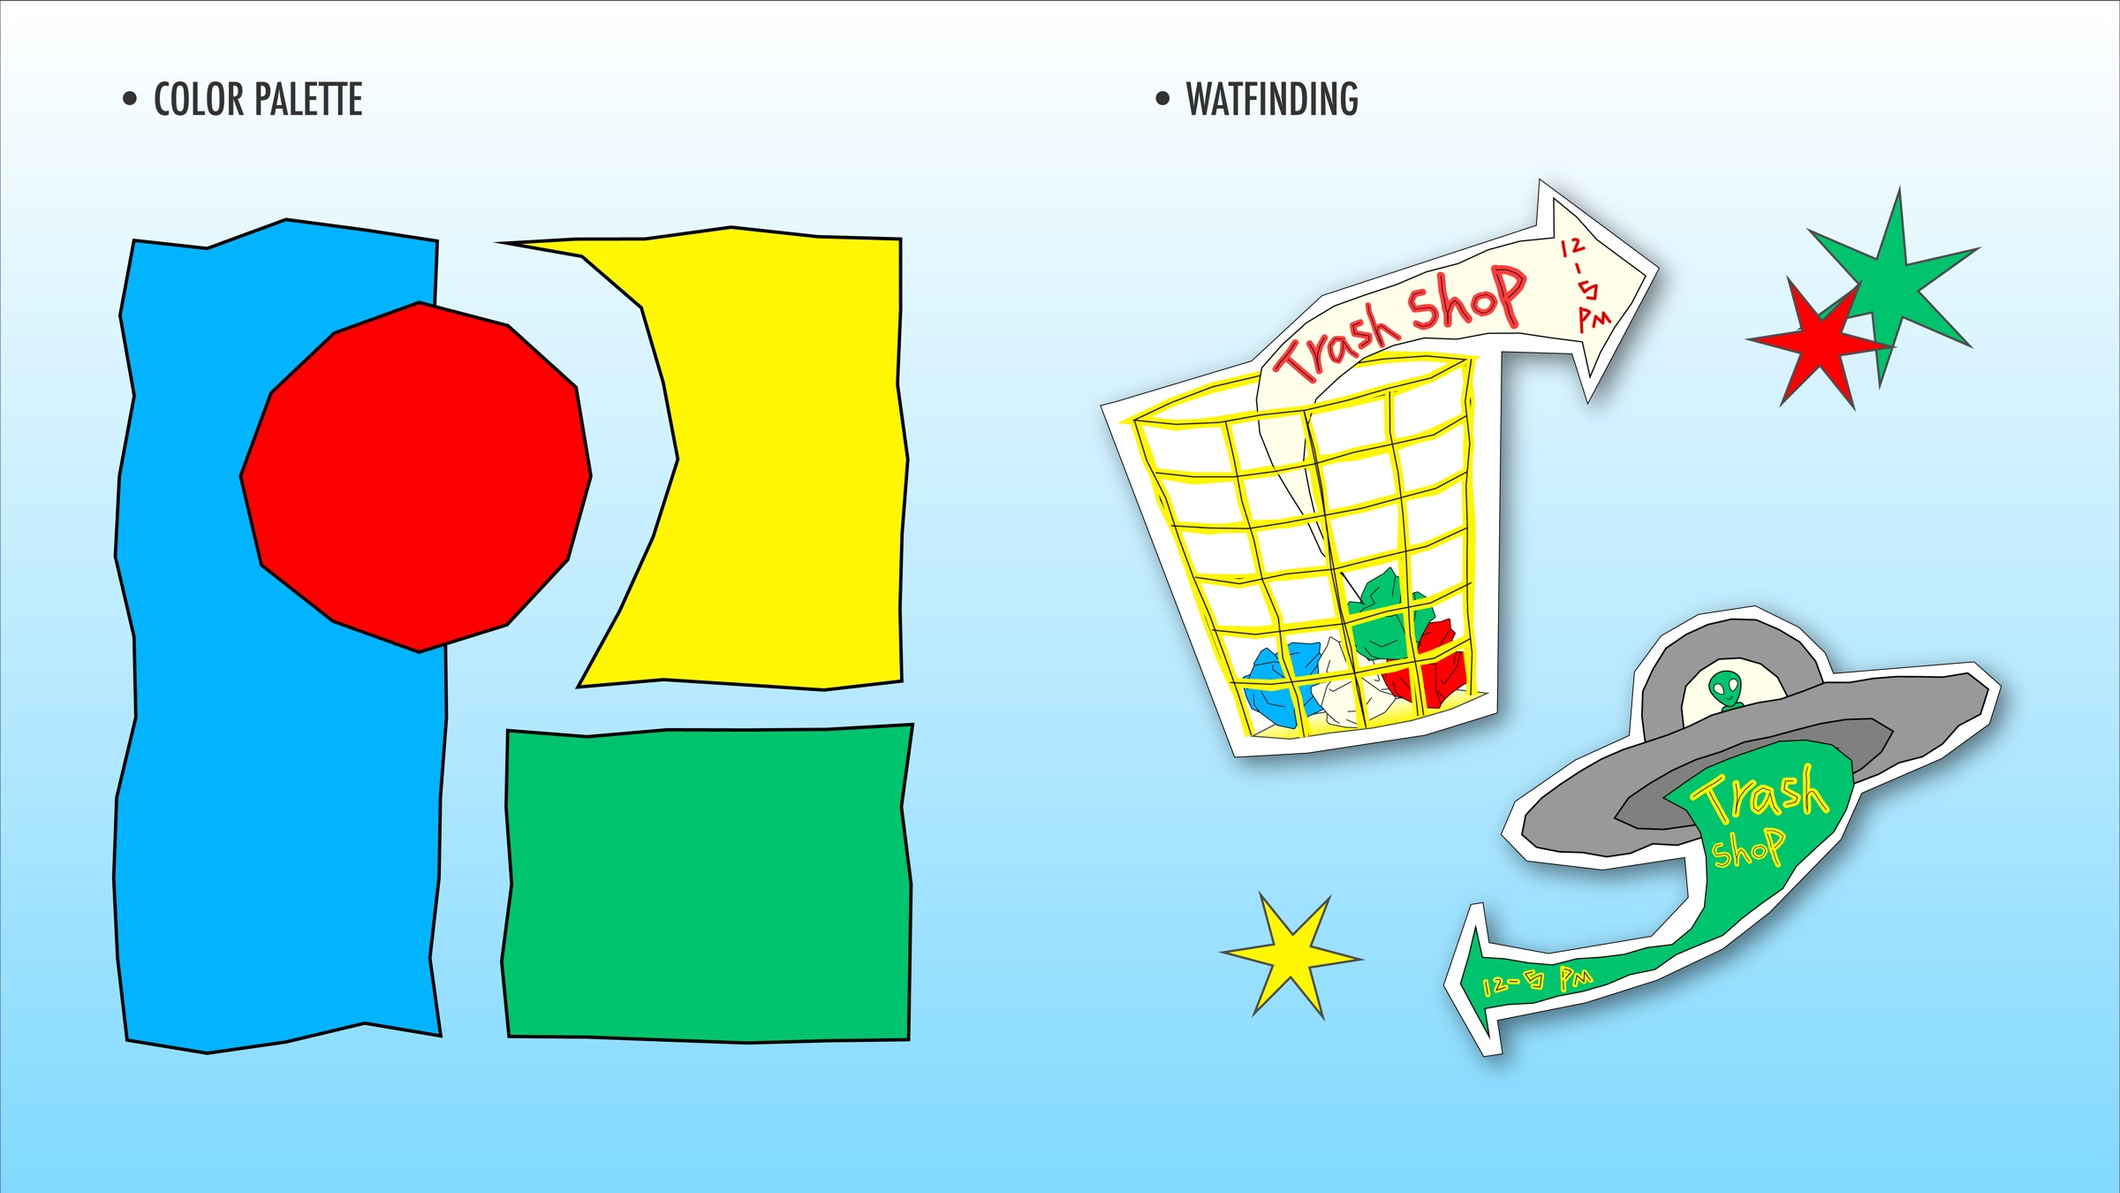
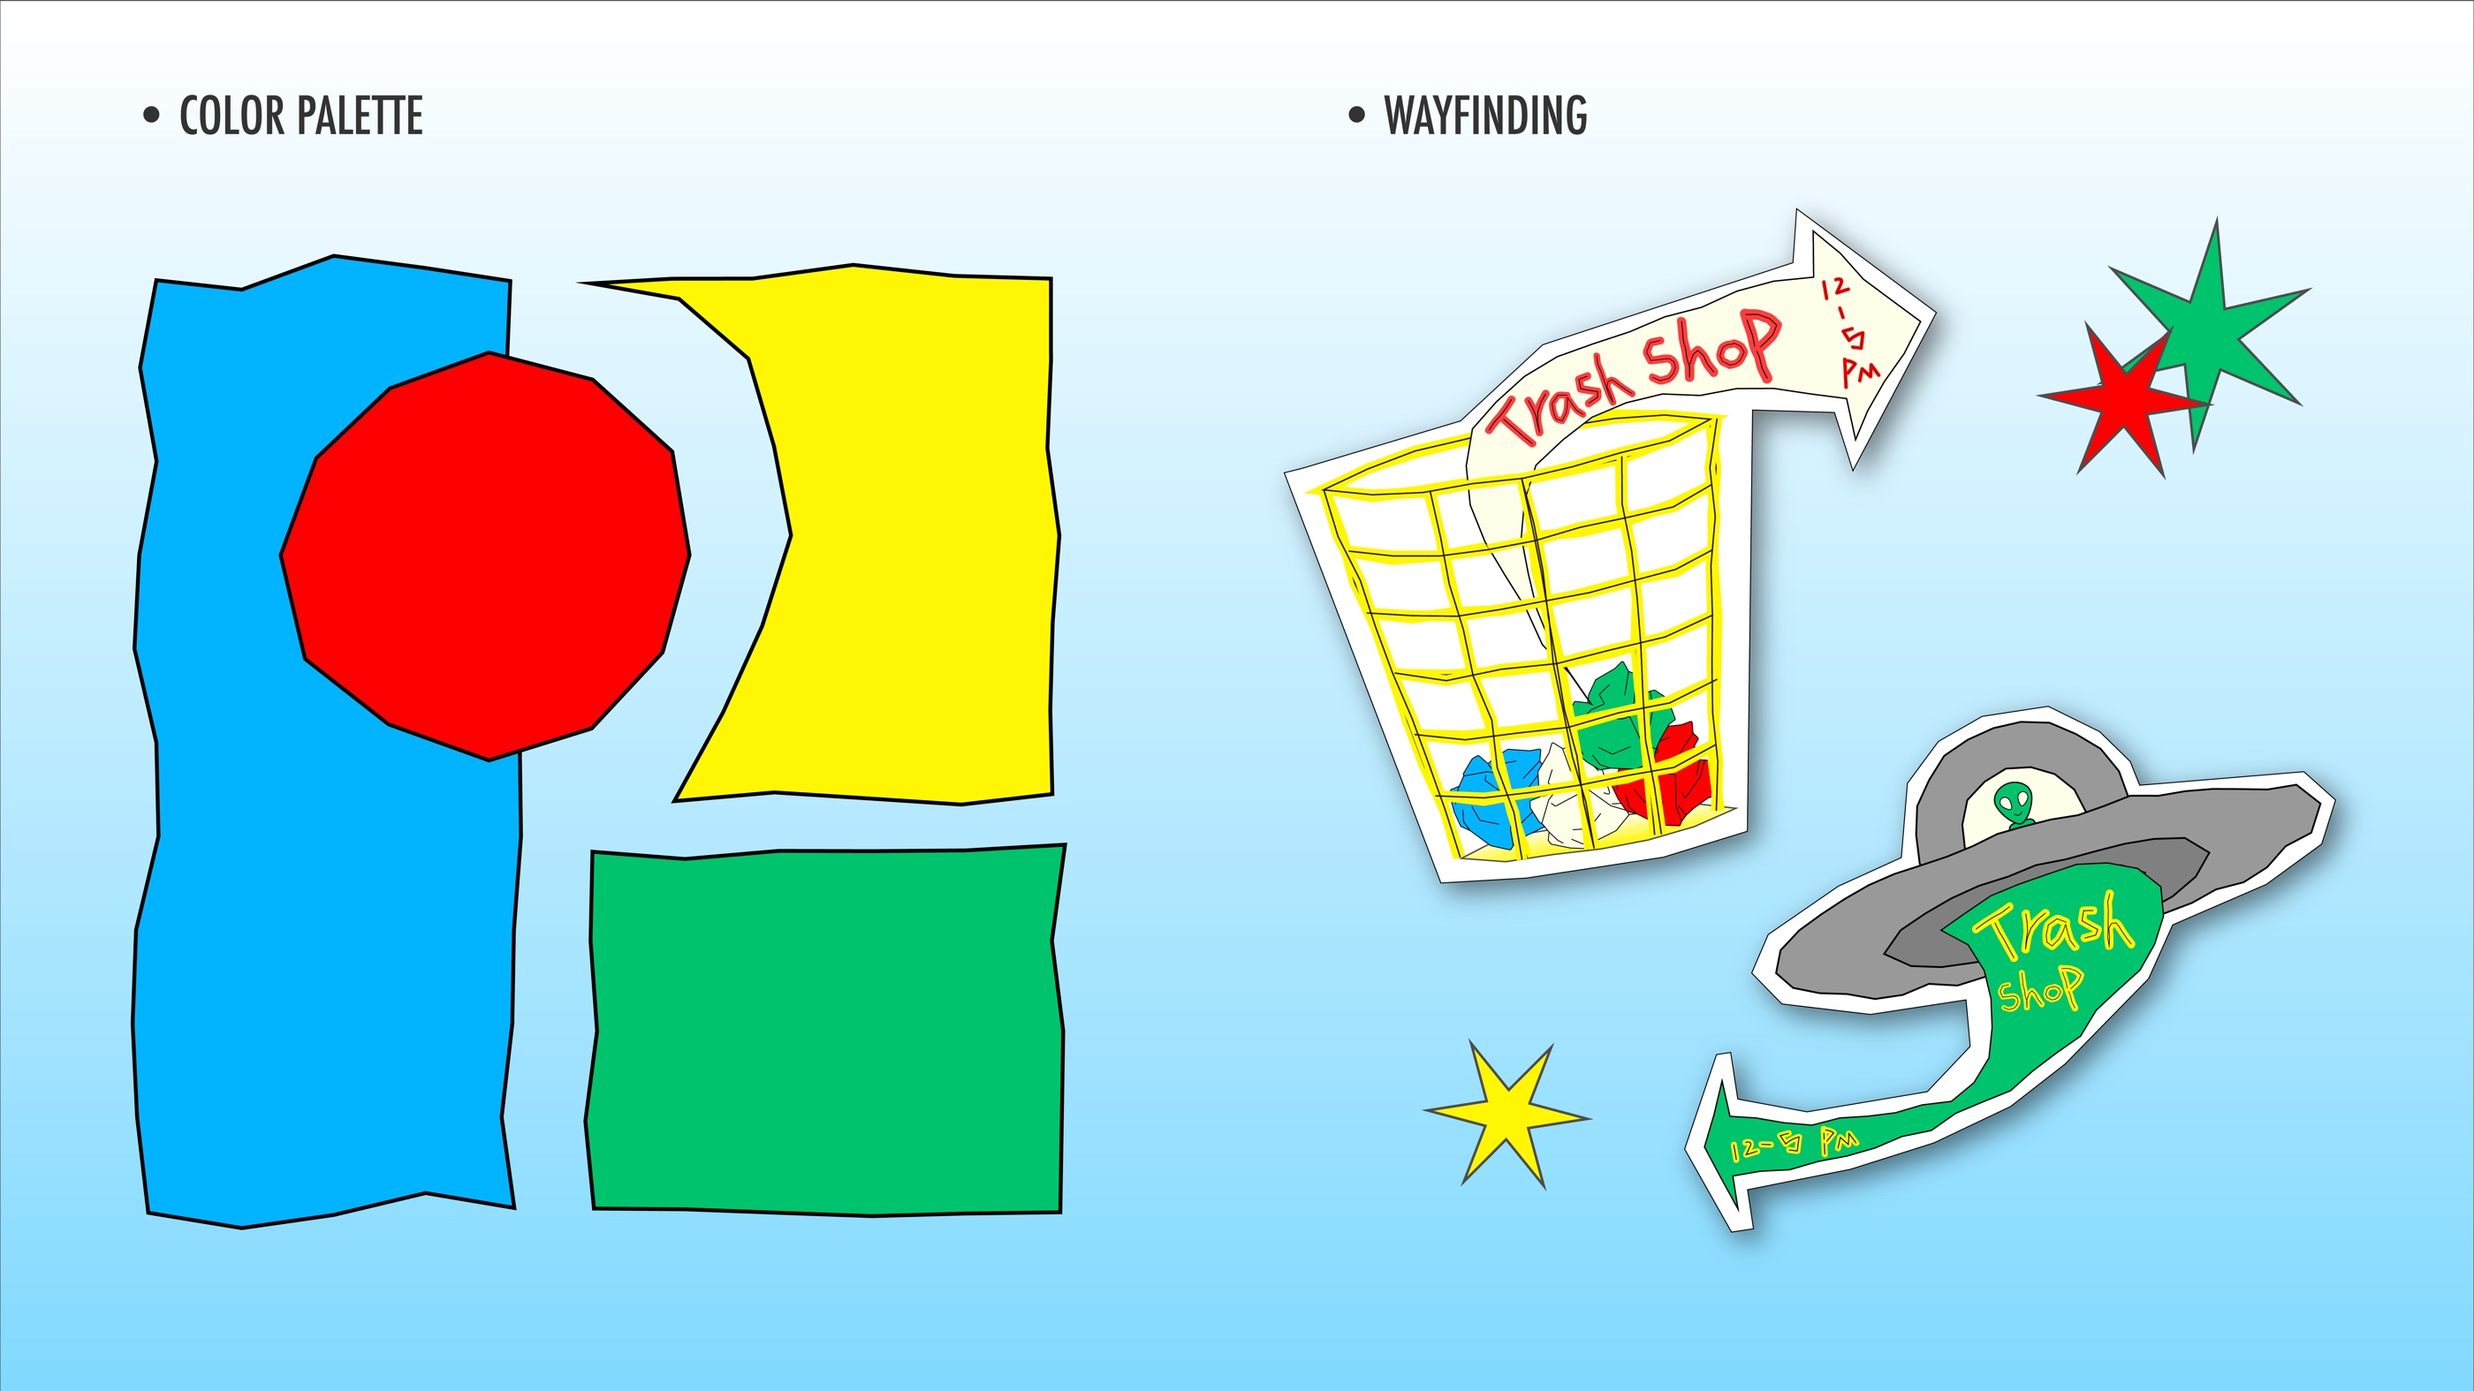
Update portfolio project copy and imagery

diff --git a/components/PackagingDesignPage.tsx b/components/PackagingDesignPage.tsx
@@ -7,57 +7,87 @@ type PackagingProject = {
   id: string;
   title: string;
   titleZh: string;
-  subtitle: string;
-  subtitleZh: string;
   sign: string;
   assetDir: string;
   images: string[];
-  description: string[];
-  descriptionZh: string[];
+  description: PackagingCopyBlock[];
+  descriptionZh: PackagingCopyBlock[];
+};
+
+type PackagingCopySegment = string | {
+  text: string;
+  bold?: boolean;
+};
+
+type PackagingCopyBlock = string | {
+  text?: string;
+  segments?: PackagingCopySegment[];
 };
 
 const projects: PackagingProject[] = [
   {
     id: "focus",
-    title: "Pink Blur",
+    title: "Focus",
     titleZh: "失焦",
-    subtitle: "Fruit cocktail packaging / 2024",
-    subtitleZh: "果味预调酒包装 / 2024",
     sign: "/packaging/sign-1.png",
     assetDir: "focus",
     images: ["1.jpg", "2.jpg", "3.jpg"],
     description: [
-      "Pink Blur is a packaging direction for a fruit-led ready-to-drink cocktail. The label begins with a deliberately softened wordmark: a small visual pause before the flavour comes into focus.",
-      "Bright pink and orange fields create a hazy, sun-warmed atmosphere, while the surrounding information stays crisp enough for the can to read quickly at a distance.",
-      "This is sample project copy for the page layout. Brand story, flavour range, materials and production notes can replace it when the case study is ready.",
+      "“FOCUS” takes the hazy, relaxed sensory experience of being slightly tipsy as its visual starting point. Through expansive diffused gradients and blurred typography, the packaging translates the gradual dissolution of boundaries between colour and information into a visual language. This responds directly to the concept “out of focus” while evoking the dreamy state between clarity and mild intoxication. Each flavour is distinguished through colours derived from its key ingredients, allowing colour to function both as an emotional device and as a cue for flavour recognition.",
+      {
+        segments: [
+          "In terms of information hierarchy, the design deliberately creates a contrast between ",
+          { text: "clarity and blur", bold: true },
+          ". Enlarged, blurred typography conveys mood and visual impact, while essential information such as flavour names and product categories remains clear, forming a secondary reading layer. Variations in scale, sharpness, placement and negative space extend the visual idea of “out of focus” while maintaining the readability of key product information.",
+        ],
+      },
     ],
     descriptionZh: [
-      "失焦是一套以果味预调酒为主题的包装方向。标签从一个刻意柔化的字标开始，让视线在识别风味之前，先经历一瞬间的朦胧停顿。",
-      "明亮的粉与橙构成带有日晒感的雾化氛围；围绕它的产品信息则保持清晰，使包装在陈列距离中依然能够被快速阅读。",
-      "此处为展示页面结构而写的示例文案。正式案例完成后，可替换为品牌背景、口味系列、材质和打样记录。",
+      "“失焦”以微醺状态下朦胧、松弛的感官体验作为视觉出发点。包装通过大面积弥散渐变与模糊文字，将色彩和信息逐渐失去边界的状态转化为视觉语言，呼应“失焦”这一名称，也呈现介于清醒与微醺之间的迷离感。不同口味以原料本身的色彩印象建立系列区分，使色彩同时承担情绪表达与风味识别的功能。",
+      "在信息层级上，设计刻意建立“清晰”与“模糊”的对比：放大的模糊文字承担情绪表达与视觉吸引力，口味名称、产品类别等核心信息则保持清晰，形成第二阅读层级。通过字号、清晰度、位置与留白的变化，包装在保持基本信息可读性的同时，也延续了“失焦”的视觉体验。",
     ],
   },
   {
     id: "trace",
     title: "Trace",
     titleZh: "Trace",
-    subtitle: "Skincare packaging / 2024",
-    subtitleZh: "护肤精华包装 / 2024",
     sign: "/packaging/sign-2.png",
     assetDir: "trace",
     images: ["1.jpg", "2.jpg", "3.jpg"],
     description: [
-      "Trace is a skincare packaging study built around the feeling of a botanical ingredient leaving a gentle mark. The identity gives rosemary room to appear as both an active component and a quiet visual gesture.",
-      "The paper-toned palette and handwritten botanical forms keep the system tactile, while the product data follows a disciplined hierarchy for everyday use.",
-      "This is provisional copy for the portfolio view. It can later be replaced with the project brief, ingredient research and the complete packaging specification.",
+      "TRACE is a skincare brand centred on nature, restoration and a pared-back approach to care. The brand seeks to strip away excess and unnecessary complexity from everyday skincare, returning attention to plants, skin and sensory experience, and leaving a light yet lasting trace through a quiet, considered ritual.",
+      "Rosemary is the key ingredient throughout the collection and also serves as the central visual motif across the packaging system. Inspired by botanical printing, the rosemary imagery retains irregular edges, variations in density and subtle imperfections, as though the plant has briefly rested on the surface and left behind a natural imprint. Across the cleanser, serum and cream, rosemary appears at different scales, orientations and crops, allowing each product to remain distinct while sharing a continuous botanical language and a cohesive visual rhythm.",
+      "The colour palette combines soft off-whites with muted greens to create a calm, airy foundation, while vivid botanical green provides the primary visual focus. Deep brown typography adds warmth and balances the organic character with a more contemporary sensibility. In the information hierarchy, key product features and category names form the primary reading path, while supporting details recede into a secondary level, allowing the botanical imagery to carry both mood and recognition.",
     ],
     descriptionZh: [
-      "Trace 是一项护肤精华包装练习，围绕植物成分留下温和痕迹的感受展开。迷迭香既作为有效成分出现，也成为贯穿画面的安静图形线索。",
-      "纸张般的中性色和手写感植物图形让系统保持触感；产品信息则采用克制、清晰的层级，以满足日常使用时的识别需求。",
-      "当前文字为作品集页面的临时示例。之后可替换为项目简报、成分研究和完整包装规格说明。",
+      "TRACE 是一个以自然、疗愈与精简护理为核心的护肤品牌。品牌希望从日常护肤中剥离过度修饰与复杂步骤，将注意力重新放回植物、肌肤与感受本身，在克制而安静的护理节奏中，留下轻盈却持续的痕迹。",
+      "该系列的主要原料是迷迭香，视觉系统也选择以迷迭香作为贯穿整个系列的核心元素，并以植物拓印的风格进行转译。枝叶并非以完整、规整的植物插画出现，而是保留压印后略显不均的边缘、浓淡与残缺感，如同植物曾短暂停留于纸面，并留下自然生长的痕迹。迷迭香在不同包装中以不同尺度、方向与裁切方式延展，使洁面、精华与面霜在保持各自信息独立的同时，共享同一种植物语言，也让系列之间形成连续而统一的视觉节奏。",
+      "色彩以柔和的米白与低饱和绿色系建立安静、通透的基调，鲜明的植物绿色则成为画面中最主要的视觉焦点，与深棕色文字共同平衡自然感与现代感。信息层级上，产品特点与品类名称构成主要阅读路径，其他信息退居次级，使植物图形承担情绪表达与识别功能。",
     ],
   },
 ];
+
+function renderCopyBlocks(blocks: PackagingCopyBlock[]) {
+  return blocks.map((block, index) => {
+    if (typeof block === "string") {
+      return <p className="brand-copy-block" key={`${block}-${index}`}>{block}</p>;
+    }
+
+    const key = block.text ?? block.segments?.map((segment) => (
+      typeof segment === "string" ? segment : segment.text
+    )).join("") ?? String(index);
+
+    return (
+      <p className="brand-copy-block" key={`${key}-${index}`}>
+        {block.segments?.map((segment, segmentIndex) => (
+          typeof segment === "string"
+            ? segment
+            : <strong key={`${segment.text}-${segmentIndex}`}>{segment.text}</strong>
+        )) ?? block.text}
+      </p>
+    );
+  });
+}
 
 export function PackagingDesignPage() {
   const [activeId, setActiveId] = useState<string | null>(null);
@@ -105,7 +135,7 @@ export function PackagingDesignPage() {
   };
 
   return (
-    <main className="brand-page packaging-page">
+    <main className="brand-page brand-design-page packaging-page">
       <Link className="brand-back" href="/" aria-label="返回路牌首页">← Index</Link>
 
       <header className="brand-sign-rail" aria-label="包装设计项目导航">
@@ -149,30 +179,18 @@ export function PackagingDesignPage() {
             <div className="brand-panel brand-copy-panel">
               <div className="brand-panel-scroll brand-copy-scroll brand-copy-scroll-zh" ref={chineseRef} lang="zh-CN">
                 <div className="brand-copy-inner brand-copy-inner-zh">
-                  <p className="brand-kicker">包装设计 / {active.id}</p>
-                  <h1>{active.titleZh}</h1>
-                  <p className="brand-subtitle">{active.subtitleZh}</p>
-                  <div className="brand-copy-rule" />
-                  {active.descriptionZh.map((paragraph) => <p key={paragraph}>{paragraph}</p>)}
-                  <p className="brand-scroll-note">滚动浏览 · 01—03</p>
+                  {renderCopyBlocks(active.descriptionZh)}
                 </div>
               </div>
               <div className="brand-panel-scroll brand-copy-scroll brand-copy-scroll-en" ref={englishRef} lang="en">
                 <div className="brand-copy-inner">
-                  <p className="brand-kicker">Packaging design / {active.id}</p>
-                  <h1>{active.title}</h1>
-                  <p className="brand-subtitle">{active.subtitle}</p>
-                  <div className="brand-copy-rule" />
-                  {active.description.map((paragraph) => <p key={paragraph}>{paragraph}</p>)}
-                  <p className="brand-scroll-note">Scroll to explore · 01—03</p>
+                  {renderCopyBlocks(active.description)}
                 </div>
               </div>
             </div>
           </>
         ) : null}
       </section>
-
-      {active ? <p className="brand-footer-note">Selected packaging studies · 2024—25</p> : null}
     </main>
   );
 }

diff --git a/components/EventDesignPage.tsx b/components/EventDesignPage.tsx
@@ -31,18 +31,14 @@ const projects: EventProject[] = [
     video: "1.mp4",
     images: ["2.jpg", "3.jpg", "4.jpg", "5.jpg"],
     description: [
-      "Trash Shop is a temporary creative event built around rejected ideas: unfinished drafts, abandoned directions and concepts that never found their final form. Instead of treating them as waste, the event invites people to look again and give them a second chance.",
-      { text: "Give your rejected ideas a second chance.", centered: true, bold: true },
-      "The visual identity borrows from rubbish cages, hand-drawn notices and improvised street signage. Bright blue, yellow, red and green create an energetic palette, while uneven outlines and torn-paper forms make the system feel direct, playful and deliberately unpolished.",
-      "The event poster brings the project world together through a giant waste basket, flying scraps and an unexpected UFO. A flexible wayfinding system extends the same language into directional signs, helping visitors navigate the pop-up space without losing the spontaneous character of the event.",
-      "Staff badges, trash tags and sticker sets turn the identity into objects that can be worn, exchanged and collected. Across print, space and motion, the materials frame discarded work not as failure, but as raw material for another beginning.",
+      "TRASH SHOP is a student creative market at the University of Leeds, created to give rejected, unused and abandoned creative work a second chance to be seen. Student designers can submit their discarded work, set their own prices and put these ideas back into circulation, allowing them to be discovered, purchased and reused by other students.",
+      "Creative work is not necessarily without value simply because it has been rejected. Sometimes, it simply was not right for a particular brief, client or moment. TRASH SHOP aims to give these ideas another chance to circulate, allowing work that once ended up in the “trash” to be seen again.",
+      "Visually, the identity does not attempt to polish or beautify this so-called “discarded work”. Instead, it embraces its weirdness, imperfections and unfinished qualities, preserving the messy, spontaneous and sometimes absurd nature of the creative process. Highly saturated colours are combined with hand-drawn lines, crumpled paper, trash bins and deliberately irregular typography. In the animated poster, a crumpled piece of paper gradually unfolds, symbolising a discarded idea being given another chance. The alien, meanwhile, represents you and me—every creator searching for ideas and finding ways to bring them to life.",
     ],
     descriptionZh: [
-      "Trash Shop 是一场围绕“被淘汰的创意”展开的临时活动。未完成的草稿、被放弃的方向，以及没有进入最终版本的想法，都可以在这里被重新看见。它们不再被当作废料，而是获得一次重新出发的机会。",
-      { text: "Give your rejected ideas a second chance.\n给被拒绝的创意第二次机会。", centered: true, bold: true },
-      "视觉系统从垃圾笼、手绘告示和临时街头标牌中提取语言。高明度的蓝、黄、红、绿构成充满能量的配色；不规则描边与撕纸般的轮廓，则让整体保持直接、幽默且刻意未经修饰的状态。",
-      "活动海报以巨大的垃圾筐、飞散的纸团与突然出现的 UFO 共同建立项目世界。导视系统沿用相同的图形语言，将活动信息转化为不同方向的异形路牌，让观众在辨认空间路径的同时，也持续进入 Trash Shop 的叙事。",
-      "工作人员胸牌、Trash 标签与贴纸套装把视觉识别延伸为可以佩戴、交换和收藏的活动物料。通过平面、空间与动态影像，这套设计把“废稿”从失败的结果，重新定义为下一次创作的原材料。",
+      "TRASH SHOP（垃圾商店）是一个面向利兹大学学生的校园创意市集，旨在为被否决、未采用或被搁置的创意作品提供第二次被看见的机会。学生设计师可以投稿自己的“废稿”并自主定价，让这些原本退出创作流程的作品重新进入流通，被其他学生发现、购买和再利用。",
+      "创意作品被淘汰，并不一定意味着它没有价值。它可能只是不适合某一份设计简报、某一个客户，或某一个特定的时刻。TRASH SHOP 希望重新赋予这些作品流通的可能，让被放进“垃圾桶”的想法重新拥有被看见的机会。",
+      "视觉上，品牌并不试图美化所谓的“废稿”，而是主动放大它们的怪异、不完美与未完成感，并保留创作过程中混乱、随性甚至有些荒诞的状态。高饱和色彩与手绘线条、纸团、垃圾桶和刻意不规整的字体相结合。在动态海报中，揉皱的纸团逐渐展开，象征着被丢弃的作品重新获得机会；外星人则代表你和我，代表每一个正在寻找并实现创意的创作者。",
     ],
   },
   {
